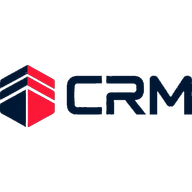
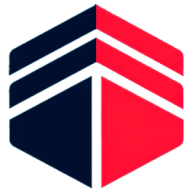
MEJORADO NOTIFICACIONES

diff --git a/src/modules/notifications/NotificationPermissionCard.tsx b/src/modules/notifications/NotificationPermissionCard.tsx
@@ -5,7 +5,7 @@ import { toast } from "sonner";
 import Button from "@/src/components/ui/button/Button";
 import { Icon } from "@/src/components/ui/Icon";
 import { getVapidPublicKey } from "./queries";
-import { subscribePushAction, testPushAction } from "./actions";
+import { subscribePushAction, testPushAction, unsubscribePushAction } from "./actions";
 import { pedirPermisoNotificacionesSistema, useNotificacionesSistemaPermiso } from "./system-notifications";
 import { asegurarSuscripcionPush, debeRegistrarPushEnEsteOrigen, soportaWebPush } from "./web-push";
 
@@ -29,6 +29,7 @@ export default function NotificationPermissionCard() {
         const push = await asegurarSuscripcionPush({
           getVapidPublicKey,
           saveSubscription: subscribePushAction,
+          removeOnServer: unsubscribePushAction,
         });
         if (push === "ok") {
           toast.success("Dispositivo listo para avisos en segundo plano");
@@ -38,6 +39,8 @@ export default function NotificationPermissionCard() {
           );
         } else if (push === "sin-vapid") {
           toast.message("Permiso OK; el servidor aún no tiene claves VAPID configuradas");
+        } else if (push === "error") {
+          toast.error("No se pudo registrar Web Push en este dispositivo");
         }
       }
     } finally {
@@ -53,14 +56,20 @@ export default function NotificationPermissionCard() {
         toast.error("Web Push deshabilitado: faltan VAPID_PUBLIC_KEY / VAPID_PRIVATE_KEY en el backend");
         return;
       }
-      if (res.sent === 0) {
+      if (res.attempted === 0) {
         toast.error(
-          "No hay suscripciones push activas para tu usuario. Activa notificaciones en este dispositivo (origen de producción).",
+          "No hay suscripciones push activas. Activa notificaciones en este dispositivo (origen de producción).",
+        );
+        return;
+      }
+      if (res.delivered === 0) {
+        toast.error(
+          `Ningún envío OK (${res.failed} fallido/s). Re-activa notificaciones o revisa VAPID.`,
         );
         return;
       }
       toast.success(
-        `Push enviado a ${res.sent} dispositivo(s). Pon la app en segundo plano si no ves el aviso del SO.`,
+        `Entregado a ${res.delivered}/${res.attempted} dispositivo(s). Pon el CRM en segundo plano: con la app enfocada no aparece el toast del SO.`,
       );
     } catch (e) {
       toast.error(e instanceof Error ? e.message : "No se pudo enviar el push de prueba");

diff --git a/src/modules/notifications/web-push.ts b/src/modules/notifications/web-push.ts
@@ -19,6 +19,21 @@ function urlBase64ToUint8Array(base64String: string): Uint8Array {
   return out;
 }
 
+function applicationServerKeyCoincide(
+  sub: PushSubscription,
+  vapidPublicKey: string,
+): boolean {
+  const key = sub.options?.applicationServerKey;
+  if (!key) return false;
+  const expected = urlBase64ToUint8Array(vapidPublicKey);
+  const actual = new Uint8Array(key);
+  if (actual.length !== expected.length) return false;
+  for (let i = 0; i < actual.length; i += 1) {
+    if (actual[i] !== expected[i]) return false;
+  }
+  return true;
+}
+
 export function soportaServiceWorker(): boolean {
   return typeof window !== "undefined" && "serviceWorker" in navigator;
 }
@@ -35,7 +50,7 @@ export function soportaWebPush(): boolean {
 export function debeRegistrarPushEnEsteOrigen(): boolean {
   if (typeof window === "undefined") return false;
   const host = window.location.hostname;
-  if (host === "localhost" || host === "127.0.0.1") {
+  if (host === "localhost" || host === "127.0.0.1" || host === "::1") {
     return process.env.NEXT_PUBLIC_ENABLE_PUSH_ON_LOCALHOST === "true";
   }
   return true;
@@ -65,6 +80,8 @@ export async function asegurarSuscripcionPush(opts: {
     keys: { p256dh: string; auth: string };
     userAgent?: string;
   }) => Promise<void>;
+  /** Baja el endpoint viejo en el servidor (JWT) al rotar suscripción. */
+  removeOnServer?: (endpoint: string) => Promise<void>;
   /** Tras pushsubscriptionchange: baja la sub actual y vuelve a suscribir. */
   forceResubscribe?: boolean;
 }): Promise<ResultadoSuscripcionPush> {
@@ -81,11 +98,22 @@ export async function asegurarSuscripcionPush(opts: {
   await navigator.serviceWorker.ready;
 
   let sub = await reg.pushManager.getSubscription();
-  if (opts.forceResubscribe && sub) {
+  const keyMismatch = Boolean(sub && !applicationServerKeyCoincide(sub, vapid.publicKey));
+  const debeRenovar = Boolean(opts.forceResubscribe || keyMismatch);
+
+  if (debeRenovar && sub) {
+    const oldEndpoint = sub.endpoint;
     try {
       await sub.unsubscribe();
     } catch {
       // continuar a re-suscribir
+    }
+    if (opts.removeOnServer && oldEndpoint) {
+      try {
+        await opts.removeOnServer(oldEndpoint);
+      } catch {
+        // no bloquear re-suscripción
+      }
     }
     sub = null;
   }

diff --git a/src/modules/notifications/NotificationPermissionGate.tsx b/src/modules/notifications/NotificationPermissionGate.tsx
@@ -6,7 +6,7 @@ import Button from "@/src/components/ui/button/Button";
 import Modal from "@/src/components/ui/modal/Modal";
 import { Icon } from "@/src/components/ui/Icon";
 import { getVapidPublicKey } from "./queries";
-import { subscribePushAction } from "./actions";
+import { subscribePushAction, unsubscribePushAction } from "./actions";
 import {
   pedirPermisoNotificacionesSistema,
   soportaNotificacionesSistema,
@@ -55,6 +55,7 @@ export default function NotificationPermissionGate() {
         const push = await asegurarSuscripcionPush({
           getVapidPublicKey,
           saveSubscription: subscribePushAction,
+          removeOnServer: unsubscribePushAction,
         });
         if (push === "ok") {
           toast.success("Notificaciones activadas (también en segundo plano)");
@@ -62,6 +63,8 @@ export default function NotificationPermissionGate() {
           toast.success("Notificaciones activadas en esta pestaña (push omitido en localhost)");
         } else if (push === "sin-vapid") {
           toast.success("Notificaciones activadas en esta pestaña");
+        } else if (push === "error") {
+          toast.error("Permiso OK, pero no se pudo registrar Web Push. Reintenta en Perfil.");
         } else {
           toast.success("Notificaciones del sistema activadas");
         }

diff --git a/src/modules/notifications/queries.ts b/src/modules/notifications/queries.ts
@@ -16,15 +16,16 @@ export async function getSocketTicket() {
 }
 
 export async function getVapidPublicKey() {
-  const fromEnv = process.env.NEXT_PUBLIC_VAPID_PUBLIC_KEY?.trim();
   try {
     const remote = await apiFetch<{ enabled: boolean; publicKey: string | null }>(
       "/notifications/push/vapid-public-key",
     );
+    // Preferir siempre la clave del backend (evita mismatch con .env del front).
     if (remote.enabled && remote.publicKey) return remote;
+    return { enabled: false, publicKey: null };
   } catch {
-    // Si el API falla, usamos la clave pública del .env del front si existe.
+    const fromEnv = process.env.NEXT_PUBLIC_VAPID_PUBLIC_KEY?.trim();
+    if (fromEnv) return { enabled: true, publicKey: fromEnv };
+    return { enabled: false, publicKey: null };
   }
-  if (fromEnv) return { enabled: true, publicKey: fromEnv };
-  return { enabled: false, publicKey: null };
 }

diff --git a/src/modules/notifications/actions.ts b/src/modules/notifications/actions.ts
@@ -49,9 +49,19 @@ export async function unsubscribePushAction(endpoint: string): Promise<void> {
 }
 
 /** Diagnóstico: solo Web Push al dispositivo actual (sin historial ni socket). */
-export async function testPushAction(): Promise<{ enabled: boolean; sent: number }> {
+export async function testPushAction(): Promise<{
+  enabled: boolean;
+  attempted: number;
+  delivered: number;
+  failed: number;
+}> {
   try {
-    return await apiFetch<{ enabled: boolean; sent: number }>("/notifications/push/test", {
+    return await apiFetch<{
+      enabled: boolean;
+      attempted: number;
+      delivered: number;
+      failed: number;
+    }>("/notifications/push/test", {
       method: "POST",
     });
   } catch (error) {

diff --git a/src/modules/notifications/useNotificationsSocket.ts b/src/modules/notifications/useNotificationsSocket.ts
@@ -151,6 +151,7 @@ export function useNotificationsSocket(enabled: boolean) {
       void asegurarSuscripcionPush({
         getVapidPublicKey,
         saveSubscription: subscribePushAction,
+        removeOnServer: unsubscribePushAction,
       });
     } else if (permiso === "denied" && permisoAnterior.current === "granted") {
       void desactivarSuscripcionPushLocal({ removeOnServer: unsubscribePushAction });
@@ -184,6 +185,7 @@ export function useNotificationsSocket(enabled: boolean) {
         void asegurarSuscripcionPush({
           getVapidPublicKey,
           saveSubscription: subscribePushAction,
+          removeOnServer: unsubscribePushAction,
           forceResubscribe: true,
         });
         return;

diff --git a/app/layout.tsx b/app/layout.tsx
@@ -17,8 +17,8 @@ export const metadata: Metadata = {
     statusBarStyle: "default",
   },
   icons: {
-    icon: "/images/logo/logo-crm.png",
-    apple: "/images/logo/logo-crm.png",
+    icon: "/icon.png",
+    apple: "/images/logo/escudo-gvr-512.png",
   },
 };
 

diff --git a/src/modules/notifications/README.md b/src/modules/notifications/README.md
@@ -8,13 +8,25 @@
 
 No uses el socket para garantizar entrega: push despierta el dispositivo; la BD guarda el historial.
 
+## Límites del SO (vs WhatsApp nativo)
+
+Web Push **no puede**:
+- Usar la foto del contacto como icono de la notificación.
+- Quitar del todo `CRM • crm.proyectosgvr.com` / `from CRM` (lo pone el SO / PWA).
+- Sonar o agrupar exactamente como la app WhatsApp.
+
+**Sí hace** el CRM:
+- Título = nombre del contacto/lead.
+- Cuerpo = texto del mensaje (o “Envió un sticker…”) truncado con `…`.
+- Icono = marca (sin texto “CRM” en `/icon.png`).
+
 ## Env frontend
 
 | Variable | Uso |
 |----------|-----|
 | `NEXT_PUBLIC_SOCKET_URL` | Base URL del API/socket (ej. `https://back-….vercel.app`) |
-| `NEXT_PUBLIC_VAPID_PUBLIC_KEY` | Fallback si falla `GET /notifications/push/vapid-public-key`. **Debe ser igual** a `VAPID_PUBLIC_KEY` del backend. |
-| `NEXT_PUBLIC_ENABLE_PUSH_ON_LOCALHOST` | Solo `"true"` si quieres suscribir Web Push en `localhost` (por defecto no se registra). |
+| `NEXT_PUBLIC_VAPID_PUBLIC_KEY` | Fallback **solo si falla** el GET del API. Debe ser igual a `VAPID_PUBLIC_KEY`. |
+| `NEXT_PUBLIC_ENABLE_PUSH_ON_LOCALHOST` | Solo `"true"` si quieres suscribir Web Push en `localhost`. |
 
 ## Env backend
 
@@ -23,67 +35,48 @@ No uses el socket para garantizar entrega: push despierta el dispositivo; la BD 
 | `VAPID_PUBLIC_KEY` / `VAPID_PRIVATE_KEY` | Par VAPID (si faltan, push deshabilitado) |
 | `VAPID_SUBJECT` | Contacto VAPID (default `mailto:…`) |
 
-Generar claves: `npx web-push generate-vapid-keys`.
-
-### Reglas VAPID (revisar primero en prod)
-
-- El **mismo par** público/privado debe usarse al suscribir y al enviar.
-- No mezclar VAPID A en local y VAPID B en prod si reutilizas filas de `suscripciones_push`.
-- Rotar claves ⇒ hay que re-activar notificaciones en cada dispositivo.
-- `NEXT_PUBLIC_VAPID_PUBLIC_KEY` = `VAPID_PUBLIC_KEY`. La **privada jamás** va al front ni a `NEXT_PUBLIC_*`.
-- Comprobar: `GET /api/notifications/push/vapid-public-key` → `{ enabled: true, publicKey: "…" }`.
+Generar: `npx web-push generate-vapid-keys`. Mismo par en todos los entornos que compartan `suscripciones_push`.
 
 ## Ciclo de permiso
 
-- Pre-prompt en el CRM → click → `Notification.requestPermission()` (gesto).
-- `granted` → Service Worker + `PushManager.subscribe` → POST `/notifications/push/subscribe`.
-- Logout / permiso `denied` → unsubscribe local + DELETE en servidor.
-- “Ahora no” en el gate: no vuelve a mostrar en la misma sesión; se puede activar en Perfil.
-- En **localhost** no se registra push salvo `NEXT_PUBLIC_ENABLE_PUSH_ON_LOCALHOST=true` (evita clicks que abren localhost).
+- Pre-prompt → gesto → `Notification.requestPermission()`.
+- `granted` → SW + subscribe → POST `/notifications/push/subscribe`.
+- Si la `applicationServerKey` local no coincide con VAPID actual → re-suscribe y DELETE del endpoint viejo.
+- Logout / `denied` → unsubscribe local + DELETE.
+- Localhost: no registra push salvo flag.
 
-## Diagnóstico móvil (antes de tocar Socket.IO)
+## Quién recibe qué
 
-### 1. Service Worker
+| Evento | Destinatarios |
+|--------|----------------|
+| WhatsApp con lead **asignado** | Solo el asignado |
+| WhatsApp sin lead / sin asignar | Toda la org (usuarios activos) |
+| Lead nuevo con auto-asignación | El asignado |
+| Lead nuevo **sin** asignado | Toda la org activa |
+| Agenda | El destinatario del recordatorio |
 
-Android Chrome → `chrome://inspect` sobre el origen de **producción**:
+## Diagnóstico: “a este usuario no le llega”
 
-- Service Worker → `/sw.js` → **activated**
+1. Permiso `granted` en el origen de **producción** (no localhost).
+2. SW `/sw.js` **activated** (`chrome://inspect` en Android).
+3. `getSubscription()` no es `null`.
+4. Fila activa en `suscripciones_push` para ese `usuarioId`.
+5. Si el lead está asignado a **otro** usuario → no debe llegarle (esperado).
+6. iOS: solo PWA en pantalla de inicio, abierta desde el icono.
+7. App **enfocada**: el SW no muestra toast del SO (usa socket/toast in-app). Probar en background.
+8. Perfil → **Probar push** → `{ enabled, attempted, delivered, failed }`.
 
-Sin SW activated no hay push aunque Nest y Socket estén bien.
+## Prueba aislada
 
-### 2. PushSubscription
+`POST /notifications/push/test` o botón en Perfil.
 
-En consola del origen prod:
+- Solo Web Push (sin historial ni socket).
+- Respuesta honesta: `delivered` / `failed`, no “sent” inflado.
 
-```js
-const registration = await navigator.serviceWorker.ready;
-const subscription = await registration.pushManager.getSubscription();
-console.log(subscription);
-```
-
-- Objeto con `endpoint` → OK para enviar.
-- `null` → problema antes de Nest (permiso, VAPID, subscribe). Activar en Perfil y revisar fila en `suscripciones_push`.
-
-### 3. Prueba aislada
-
-`POST /notifications/push/test` (JWT) o botón **Probar push** en Perfil.
-
-- Solo Web Push al usuario actual (sin historial in-app ni Socket).
-- Respuesta: `{ enabled, sent }`.
-  - `enabled: false` → faltan VAPID en backend.
-  - `sent: 0` → no hay suscripciones activas.
-  - Llega al teléfono → VAPID + SW + permiso + suscripción OK → entonces probar WhatsApp / `CrearNotificacionUseCase`.
-
-## Matriz de prueba real
+## Matriz de prueba
 
 | Escenario | Esperado |
 |-----------|----------|
-| App abierta / enfocada | Socket → toast/sonido; SW no muestra toast del SO |
-| App en background | Web Push → notificación SO |
-| Teléfono bloqueado | Web Push → notificación SO |
-| PWA cerrada | Web Push → SO; al abrir, campana/unread sincroniza desde BD |
-| Tap en notificación | Abre origen prod + ruta (`/chats/…`, `/leads/…`, o `payload.url`) |
-
-### iOS (Safari 16.4+)
-
-Solo con PWA en **Pantalla de inicio**, abierta desde el icono, permiso en HTTPS. Safari en pestaña = “no-soportado” (esperado).
+| App abierta / enfocada | Socket → toast; SW sin toast SO |
+| Background / bloqueado / PWA cerrada | Web Push → notificación SO |
+| Tap | Origen prod + ruta (`/chats/…`, `/leads/…`) |
